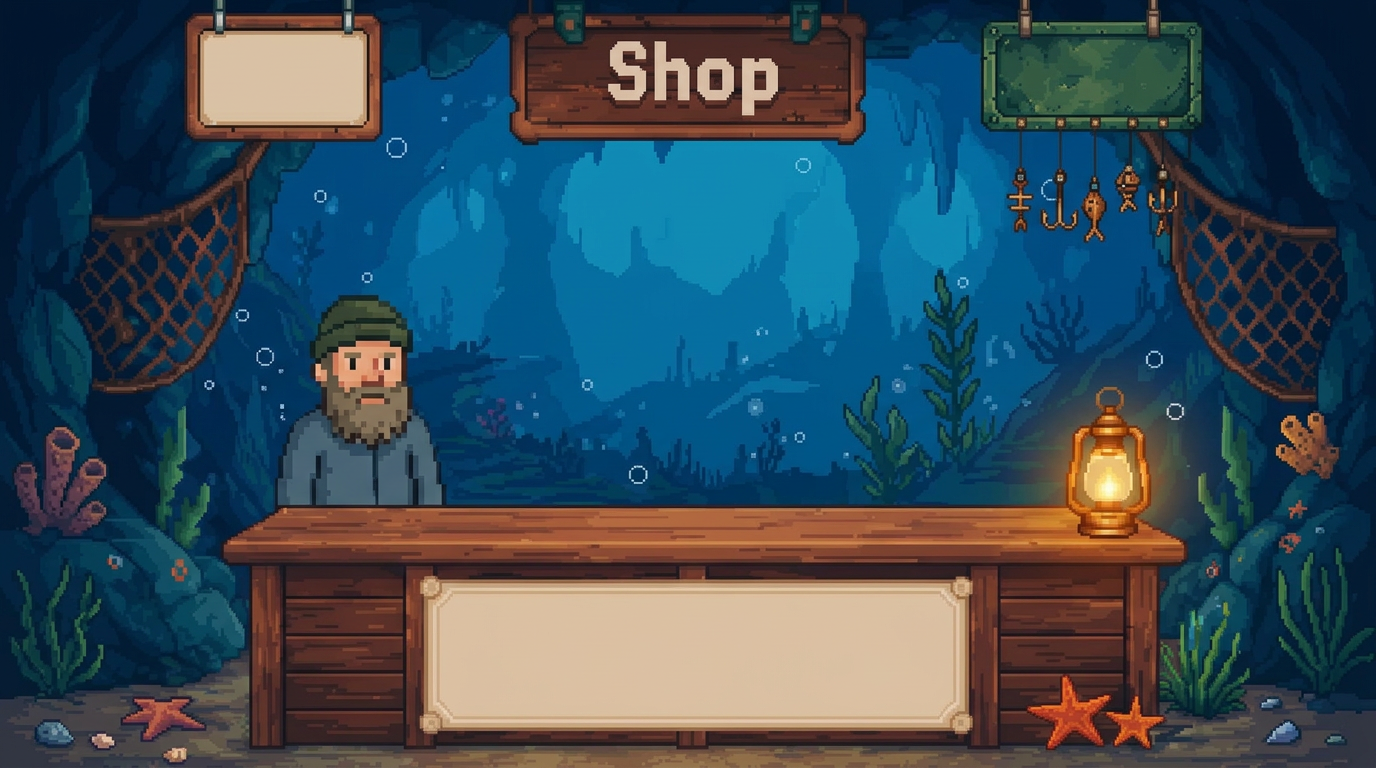
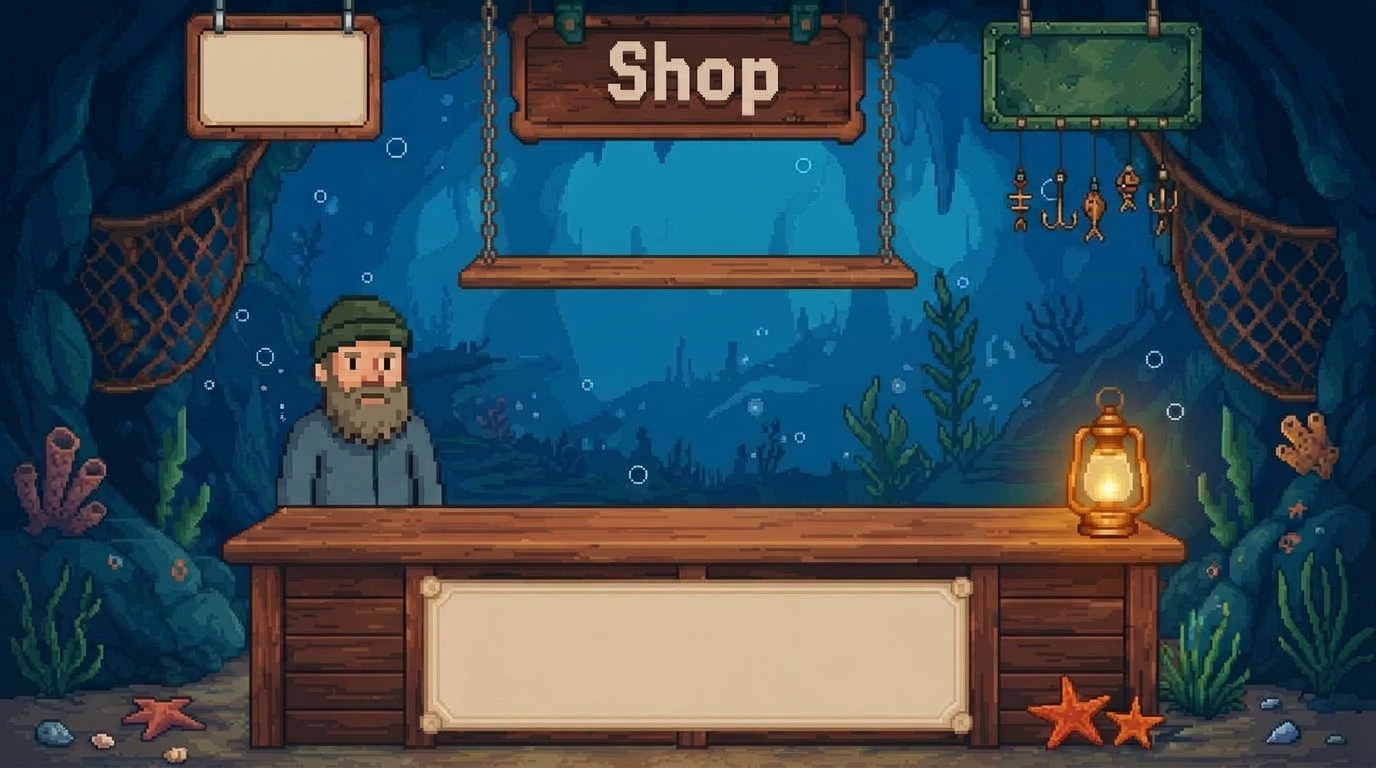
Add Four Leaf Clover

diff --git a/docs/js/ShopManager.js b/docs/js/ShopManager.js
@@ -9,10 +9,11 @@ class ShopManager {
 
         //道具在柜台上的位置
         this.itemPositions = [
-            { x: width / 2 - 187, y: height / 2 + 110 }, // Strength Potion
-            { x: width / 2 - 62, y: height / 2 + 110 }, // Laser Sight
-            { x: width / 2 + 62, y: height / 2 + 110 }, // Sand Clock
-            { x: width / 2 + 187, y: height / 2 + 110 }, // Submarine
+            { x: width / 2 - 180, y: height / 2 + 110 }, // Strength Potion
+            { x: width / 2 - 60, y: height / 2 + 110 }, // Laser Sight
+            { x: width / 2 + 60, y: height / 2 + 110 }, // Sand Clock
+            { x: width / 2 + 180, y: height / 2 + 110 }, // Submarine
+            { x: width / 2 -120, y: height / 2 - 140 },// Clover
         ];
 
         this.hitRadius = 60; // 判定范围
@@ -42,6 +43,11 @@ class ShopManager {
                 "Submarine",
                 2000,
                 "Explore the deep sea.\nPermanent upgrade",
+                levelNum
+            ),
+            new ShopItem("Four-Leaf Clover",
+                600,
+                "Treasures worth 30% more.\nPermanent upgrade.",
                 levelNum
             )
         ];
@@ -167,11 +173,19 @@ class ShopManager {
             ) {
                 image(submarineImg, pos.x, pos.y, imgSize, imgSize);
             }
+            else if (
+                item.name === "Four-Leaf Clover" && 
+                typeof cloverImg !== "undefined" && 
+                cloverImg
+            ) {
+                image(cloverImg, pos.x, pos.y, imgSize, imgSize);
+            }
             pop();
 
             let isSold =
                 item.purchased ||
-                (item.name === "Submarine" && player.hasSubmarine);
+                (item.name === "Submarine" && player.hasSubmarine) ||
+                (item.name === "Four-Leaf Clover" && player.hasClover);
             if (isSold) {
                 push();
                 fill(0, 0, 0, 180);
@@ -277,7 +291,8 @@ class ShopManager {
 
                 let alreadyOwned =
                     item.purchased ||
-                    (item.name === "Submarine" && player.hasSubmarine);
+                    (item.name === "Submarine" && player.hasSubmarine) ||
+                    (item.name === "Four-Leaf Clover" && player.hasClover);;
 
                 if (!alreadyOwned && canAfford) {
                     // 双人：优先扣 P1，不足从 P2 补；单人：原逻辑

diff --git a/docs/js/ShopItem.js b/docs/js/ShopItem.js
@@ -12,8 +12,9 @@ class ShopItem {
             inflationRate = 0;    // Laser不涨价
         } else if (this.name === "Submarine") {
             inflationRate = 0.03; // 潜水艇涨价系数
+        }else if(this.name === "Four-Leaf Clover") {
+            inflationRate = 0.05; // 四叶草涨价系数
         }
-
         // --- 2. 计算通胀后的价格 ---
         // 从11关起，停止涨价
         let inflationLevel = Math.min(levelNum, 11);
@@ -50,6 +51,11 @@ class ShopItem {
         // 潜水艇：永久解锁深海模式（持久化在 player 上）
         if (this.name === "Submarine") {
             levelManager.player.hasSubmarine = true;
+        }
+
+        // 四叶草：永久解锁
+        if (this.name === "Four-Leaf Clover") {
+            levelManager.player.hasClover = true;
         }
     }
 }

diff --git a/docs/js/LevelManager.js b/docs/js/LevelManager.js
@@ -189,7 +189,7 @@ class LevelManager {
                             if (
                                 sx > 40 &&
                                 sx < width - 40 &&
-                                sy > 280 &&
+                                sy > 200 &&
                                 sy < height - 20
                             ) {
                                 let stone = new Stone(sx, sy);
@@ -288,6 +288,10 @@ class LevelManager {
             let returnedItem = currentHook.update();
 
             if (returnedItem) {
+                // 如果抓上来的是宝箱，且玩家有四叶草，金额乘增加
+                if (this.player.hasClover && (returnedItem.constructor.name === "Treasure" || returnedItem.itemName === "Treasure")) {
+                    returnedItem.scoreValue = Math.floor(returnedItem.scoreValue * 1.3);
+                }
                 // 播放抓中音效
                 if (typeof catchSfx !== 'undefined' && catchSfx) {
                     if (catchSfx.isPlaying()) catchSfx.stop();

diff --git a/docs/js/SeaItem.js b/docs/js/SeaItem.js
@@ -132,8 +132,8 @@ class FishBone extends SeaItem {
 
 class Treasure extends SeaItem {
     constructor(x, y) {
-        // Score range widened: 50–400 (was 100–500), mystery-box feel
-        let val = floor(random(50, 400));
+        // Score range widened: (was 50–400), mystery-box feel
+        let val = floor(random(150, 400));
         super(x, y, "Treasure", val, 4);
         this.width = 80;
         this.height = 60;

diff --git a/docs/js/Player.js b/docs/js/Player.js
@@ -6,6 +6,7 @@ class Player {
         this.p2Score = 0; // P2 独立余额（双人模式）
         this.inventory = [];
         this.hasSubmarine = false;
+        this.hasClover = false;
     }
 
     addScore(amount) {